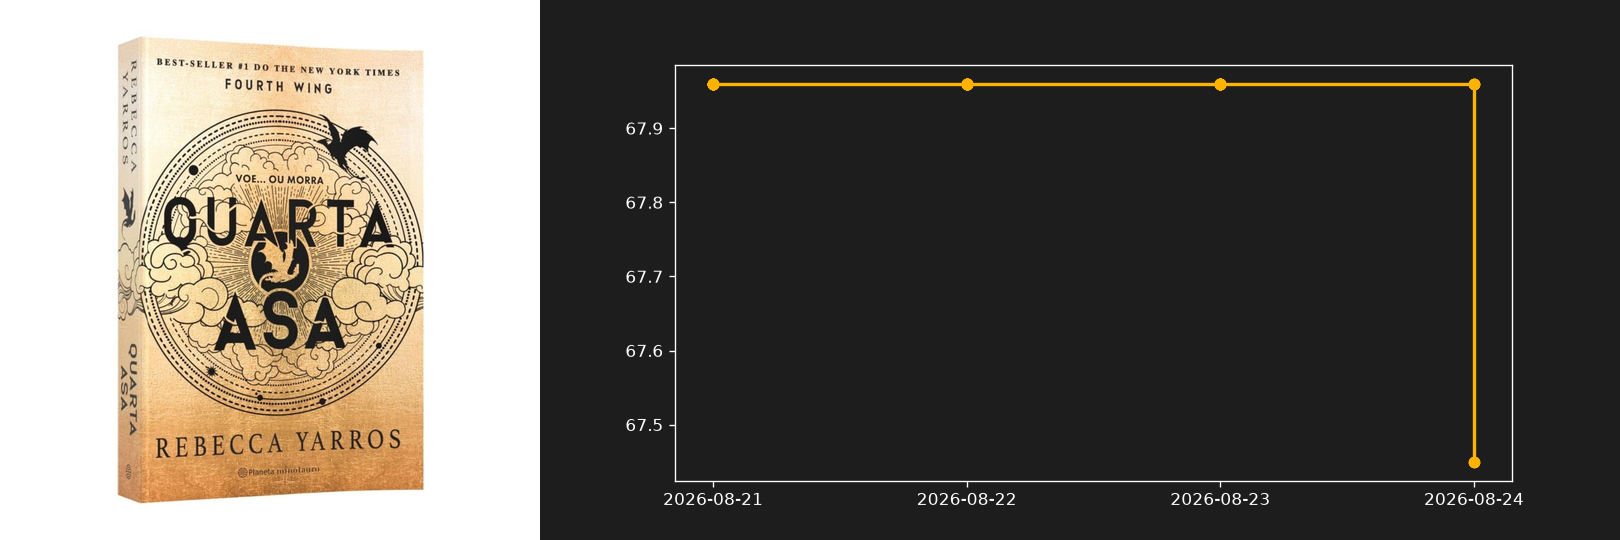
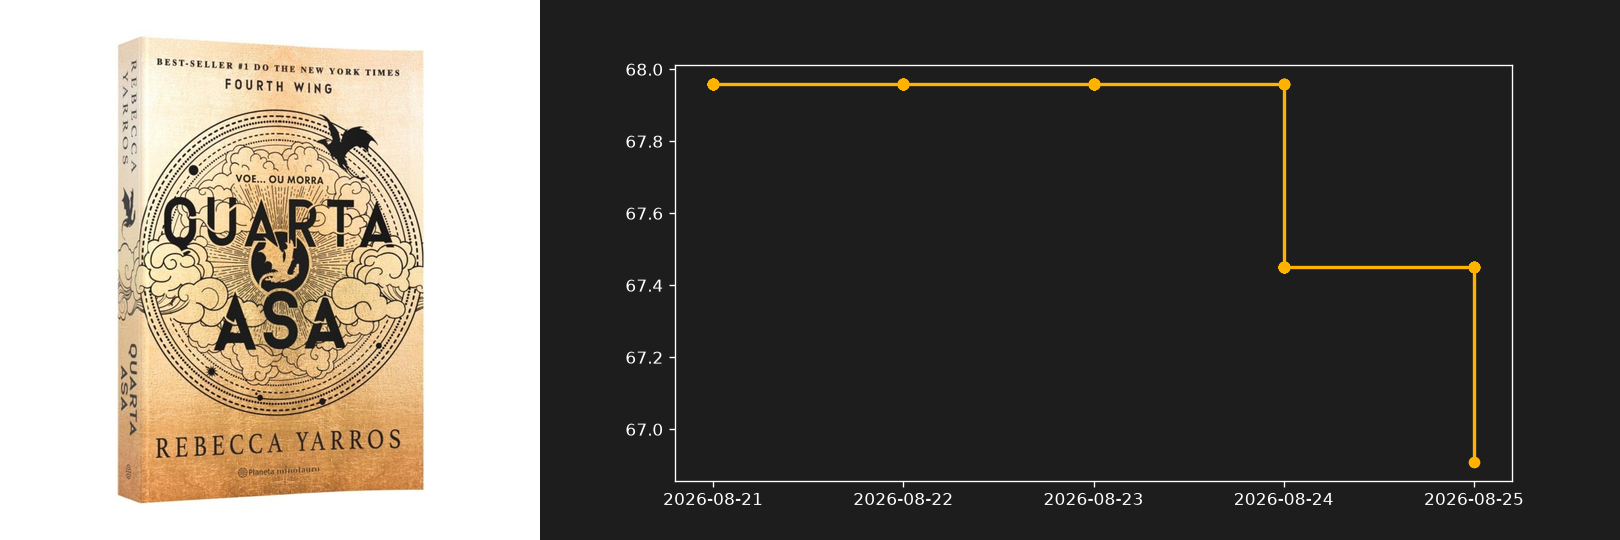
🤖 Bot Mac: Atualizando ofertas [skip ci]

diff --git a/index.html b/index.html
@@ -48,7 +48,7 @@
             <div class="flex flex-col mt-auto mb-5">
                 <div class="flex items-baseline gap-2">
                     <span class="text-2xl font-bold text-white tracking-tight">R$ 184,07</span>
-                    <span class="text-sm text-gray-500 line-through">R$ 257,69</span>
+                    <span class="text-sm text-gray-500 line-through">R$ 257,47</span>
                 </div>
             </div>
             <a href="https://link.amazon/B0bxqDHXJ" target="_blank" rel="nofollow noopener" class="w-full flex items-center justify-center gap-2 py-2.5 rounded-xl bg-white/5 hover:bg-bardo-gold hover:text-bardo-dark text-sm font-bold text-gray-200 transition-all">Comprar na Amazon</a>
@@ -128,7 +128,7 @@
             <div class="flex flex-col mt-auto mb-5">
                 <div class="flex items-baseline gap-2">
                     <span class="text-2xl font-bold text-white tracking-tight">R$ 49,78</span>
-                    <span class="text-sm text-gray-500 line-through">R$ 45,08</span>
+                    <span class="text-sm text-gray-500 line-through">R$ 45,09</span>
                 </div>
             </div>
             <a href="https://link.amazon/B05Sr7Nr7" target="_blank" rel="nofollow noopener" class="w-full flex items-center justify-center gap-2 py-2.5 rounded-xl bg-white/5 hover:bg-bardo-gold hover:text-bardo-dark text-sm font-bold text-gray-200 transition-all">Comprar na Amazon</a>
@@ -148,7 +148,7 @@
             <div class="flex flex-col mt-auto mb-5">
                 <div class="flex items-baseline gap-2">
                     <span class="text-2xl font-bold text-white tracking-tight">R$ 139,93</span>
-                    <span class="text-sm text-gray-500 line-through">R$ 131,09</span>
+                    <span class="text-sm text-gray-500 line-through">R$ 131,11</span>
                 </div>
             </div>
             <a href="https://link.amazon/B04OFbHZF" target="_blank" rel="nofollow noopener" class="w-full flex items-center justify-center gap-2 py-2.5 rounded-xl bg-white/5 hover:bg-bardo-gold hover:text-bardo-dark text-sm font-bold text-gray-200 transition-all">Comprar na Amazon</a>
@@ -188,7 +188,7 @@
             <div class="flex flex-col mt-auto mb-5">
                 <div class="flex items-baseline gap-2">
                     <span class="text-2xl font-bold text-white tracking-tight">R$ 227,41</span>
-                    <span class="text-sm text-gray-500 line-through">R$ 218,33</span>
+                    <span class="text-sm text-gray-500 line-through">R$ 218,35</span>
                 </div>
             </div>
             <a href="https://link.amazon/B0cOS4omj" target="_blank" rel="nofollow noopener" class="w-full flex items-center justify-center gap-2 py-2.5 rounded-xl bg-white/5 hover:bg-bardo-gold hover:text-bardo-dark text-sm font-bold text-gray-200 transition-all">Comprar na Amazon</a>
@@ -228,7 +228,7 @@
             <div class="flex flex-col mt-auto mb-5">
                 <div class="flex items-baseline gap-2">
                     <span class="text-2xl font-bold text-white tracking-tight">R$ 78,99</span>
-                    <span class="text-sm text-gray-500 line-through">R$ 76,39</span>
+                    <span class="text-sm text-gray-500 line-through">R$ 76,40</span>
                 </div>
             </div>
             <a href="https://link.amazon/B01CIGwaZ" target="_blank" rel="nofollow noopener" class="w-full flex items-center justify-center gap-2 py-2.5 rounded-xl bg-white/5 hover:bg-bardo-gold hover:text-bardo-dark text-sm font-bold text-gray-200 transition-all">Comprar na Amazon</a>
@@ -248,7 +248,7 @@
             <div class="flex flex-col mt-auto mb-5">
                 <div class="flex items-baseline gap-2">
                     <span class="text-2xl font-bold text-white tracking-tight">R$ 368,65</span>
-                    <span class="text-sm text-gray-500 line-through">R$ 373,17</span>
+                    <span class="text-sm text-gray-500 line-through">R$ 373,16</span>
                 </div>
             </div>
             <a href="https://link.amazon/B0czAwuOp" target="_blank" rel="nofollow noopener" class="w-full flex items-center justify-center gap-2 py-2.5 rounded-xl bg-white/5 hover:bg-bardo-gold hover:text-bardo-dark text-sm font-bold text-gray-200 transition-all">Comprar na Amazon</a>
@@ -288,7 +288,7 @@
             <div class="flex flex-col mt-auto mb-5">
                 <div class="flex items-baseline gap-2">
                     <span class="text-2xl font-bold text-white tracking-tight">R$ 69,73</span>
-                    <span class="text-sm text-gray-500 line-through">R$ 66,66</span>
+                    <span class="text-sm text-gray-500 line-through">R$ 66,67</span>
                 </div>
             </div>
             <a href="https://link.amazon/B0bJ5jTSU" target="_blank" rel="nofollow noopener" class="w-full flex items-center justify-center gap-2 py-2.5 rounded-xl bg-white/5 hover:bg-bardo-gold hover:text-bardo-dark text-sm font-bold text-gray-200 transition-all">Comprar na Amazon</a>
@@ -308,7 +308,7 @@
             <div class="flex flex-col mt-auto mb-5">
                 <div class="flex items-baseline gap-2">
                     <span class="text-2xl font-bold text-white tracking-tight">R$ 46,14</span>
-                    <span class="text-sm text-gray-500 line-through">R$ 52,84</span>
+                    <span class="text-sm text-gray-500 line-through">R$ 52,82</span>
                 </div>
             </div>
             <a href="https://link.amazon/B075ASsRo" target="_blank" rel="nofollow noopener" class="w-full flex items-center justify-center gap-2 py-2.5 rounded-xl bg-white/5 hover:bg-bardo-gold hover:text-bardo-dark text-sm font-bold text-gray-200 transition-all">Comprar na Amazon</a>
@@ -368,7 +368,7 @@
             <div class="flex flex-col mt-auto mb-5">
                 <div class="flex items-baseline gap-2">
                     <span class="text-2xl font-bold text-white tracking-tight">R$ 92,70</span>
-                    <span class="text-sm text-gray-500 line-through">R$ 102,87</span>
+                    <span class="text-sm text-gray-500 line-through">R$ 102,84</span>
                 </div>
             </div>
             <a href="https://link.amazon/B0g8PJdyP" target="_blank" rel="nofollow noopener" class="w-full flex items-center justify-center gap-2 py-2.5 rounded-xl bg-white/5 hover:bg-bardo-gold hover:text-bardo-dark text-sm font-bold text-gray-200 transition-all">Comprar na Amazon</a>
@@ -408,7 +408,7 @@
             <div class="flex flex-col mt-auto mb-5">
                 <div class="flex items-baseline gap-2">
                     <span class="text-2xl font-bold text-white tracking-tight">R$ 137,70</span>
-                    <span class="text-sm text-gray-500 line-through">R$ 145,62</span>
+                    <span class="text-sm text-gray-500 line-through">R$ 145,60</span>
                 </div>
             </div>
             <a href="https://link.amazon/B0cBFS3o1" target="_blank" rel="nofollow noopener" class="w-full flex items-center justify-center gap-2 py-2.5 rounded-xl bg-white/5 hover:bg-bardo-gold hover:text-bardo-dark text-sm font-bold text-gray-200 transition-all">Comprar na Amazon</a>
@@ -428,7 +428,7 @@
             <div class="flex flex-col mt-auto mb-5">
                 <div class="flex items-baseline gap-2">
                     <span class="text-2xl font-bold text-white tracking-tight">R$ 148,29</span>
-                    <span class="text-sm text-gray-500 line-through">R$ 146,90</span>
+                    <span class="text-sm text-gray-500 line-through">R$ 146,91</span>
                 </div>
             </div>
             <a href="https://link.amazon/B0f81O992" target="_blank" rel="nofollow noopener" class="w-full flex items-center justify-center gap-2 py-2.5 rounded-xl bg-white/5 hover:bg-bardo-gold hover:text-bardo-dark text-sm font-bold text-gray-200 transition-all">Comprar na Amazon</a>
@@ -448,7 +448,7 @@
             <div class="flex flex-col mt-auto mb-5">
                 <div class="flex items-baseline gap-2">
                     <span class="text-2xl font-bold text-white tracking-tight">R$ 44,89</span>
-                    <span class="text-sm text-gray-500 line-through">R$ 43,36</span>
+                    <span class="text-sm text-gray-500 line-through">R$ 43,37</span>
                 </div>
             </div>
             <a href="https://link.amazon/B00bB1BuS" target="_blank" rel="nofollow noopener" class="w-full flex items-center justify-center gap-2 py-2.5 rounded-xl bg-white/5 hover:bg-bardo-gold hover:text-bardo-dark text-sm font-bold text-gray-200 transition-all">Comprar na Amazon</a>
@@ -548,7 +548,7 @@
             <div class="flex flex-col mt-auto mb-5">
                 <div class="flex items-baseline gap-2">
                     <span class="text-2xl font-bold text-white tracking-tight">R$ 87,59</span>
-                    <span class="text-sm text-gray-500 line-through">R$ 84,19</span>
+                    <span class="text-sm text-gray-500 line-through">R$ 84,20</span>
                 </div>
             </div>
             <a href="https://link.amazon/B0fHxeIhM" target="_blank" rel="nofollow noopener" class="w-full flex items-center justify-center gap-2 py-2.5 rounded-xl bg-white/5 hover:bg-bardo-gold hover:text-bardo-dark text-sm font-bold text-gray-200 transition-all">Comprar na Amazon</a>
@@ -568,7 +568,7 @@
             <div class="flex flex-col mt-auto mb-5">
                 <div class="flex items-baseline gap-2">
                     <span class="text-2xl font-bold text-white tracking-tight">R$ 76,38</span>
-                    <span class="text-sm text-gray-500 line-through">R$ 73,36</span>
+                    <span class="text-sm text-gray-500 line-through">R$ 73,37</span>
                 </div>
             </div>
             <a href="https://link.amazon/B09kGQop8" target="_blank" rel="nofollow noopener" class="w-full flex items-center justify-center gap-2 py-2.5 rounded-xl bg-white/5 hover:bg-bardo-gold hover:text-bardo-dark text-sm font-bold text-gray-200 transition-all">Comprar na Amazon</a>
@@ -588,7 +588,7 @@
             <div class="flex flex-col mt-auto mb-5">
                 <div class="flex items-baseline gap-2">
                     <span class="text-2xl font-bold text-white tracking-tight">R$ 285,85</span>
-                    <span class="text-sm text-gray-500 line-through">R$ 279,37</span>
+                    <span class="text-sm text-gray-500 line-through">R$ 279,45</span>
                 </div>
             </div>
             <a href="https://link.amazon/B046QvncM" target="_blank" rel="nofollow noopener" class="w-full flex items-center justify-center gap-2 py-2.5 rounded-xl bg-white/5 hover:bg-bardo-gold hover:text-bardo-dark text-sm font-bold text-gray-200 transition-all">Comprar na Amazon</a>
@@ -608,7 +608,7 @@
             <div class="flex flex-col mt-auto mb-5">
                 <div class="flex items-baseline gap-2">
                     <span class="text-2xl font-bold text-white tracking-tight">R$ 192,75</span>
-                    <span class="text-sm text-gray-500 line-through">R$ 190,98</span>
+                    <span class="text-sm text-gray-500 line-through">R$ 191,01</span>
                 </div>
             </div>
             <a href="https://link.amazon/B037mPoB1" target="_blank" rel="nofollow noopener" class="w-full flex items-center justify-center gap-2 py-2.5 rounded-xl bg-white/5 hover:bg-bardo-gold hover:text-bardo-dark text-sm font-bold text-gray-200 transition-all">Comprar na Amazon</a>
@@ -628,7 +628,7 @@
             <div class="flex flex-col mt-auto mb-5">
                 <div class="flex items-baseline gap-2">
                     <span class="text-2xl font-bold text-white tracking-tight">R$ 38,13</span>
-                    <span class="text-sm text-gray-500 line-through">R$ 37,88</span>
+                    <span class="text-sm text-gray-500 line-through">R$ 37,89</span>
                 </div>
             </div>
             <a href="https://link.amazon/B0ja4Ste6" target="_blank" rel="nofollow noopener" class="w-full flex items-center justify-center gap-2 py-2.5 rounded-xl bg-white/5 hover:bg-bardo-gold hover:text-bardo-dark text-sm font-bold text-gray-200 transition-all">Comprar na Amazon</a>
@@ -648,7 +648,7 @@
             <div class="flex flex-col mt-auto mb-5">
                 <div class="flex items-baseline gap-2">
                     <span class="text-2xl font-bold text-white tracking-tight">R$ 48,99</span>
-                    <span class="text-sm text-gray-500 line-through">R$ 48,54</span>
+                    <span class="text-sm text-gray-500 line-through">R$ 48,55</span>
                 </div>
             </div>
             <a href="https://link.amazon/B0cIs9iDO" target="_blank" rel="nofollow noopener" class="w-full flex items-center justify-center gap-2 py-2.5 rounded-xl bg-white/5 hover:bg-bardo-gold hover:text-bardo-dark text-sm font-bold text-gray-200 transition-all">Comprar na Amazon</a>
@@ -727,8 +727,8 @@
             <h3 class="text-base font-semibold text-gray-100 leading-snug line-clamp-2 mb-4 group-hover:text-bardo-gold transition-colors">Quarta asa</h3>
             <div class="flex flex-col mt-auto mb-5">
                 <div class="flex items-baseline gap-2">
-                    <span class="text-2xl font-bold text-white tracking-tight">R$ 67,45</span>
-                    <span class="text-sm text-gray-500 line-through">R$ 67,82</span>
+                    <span class="text-2xl font-bold text-white tracking-tight">R$ 66,91</span>
+                    <span class="text-sm text-gray-500 line-through">R$ 67,80</span>
                 </div>
             </div>
             <a href="https://link.amazon/B0gpt2mie" target="_blank" rel="nofollow noopener" class="w-full flex items-center justify-center gap-2 py-2.5 rounded-xl bg-white/5 hover:bg-bardo-gold hover:text-bardo-dark text-sm font-bold text-gray-200 transition-all">Comprar na Amazon</a>
@@ -748,7 +748,7 @@
             <div class="flex flex-col mt-auto mb-5">
                 <div class="flex items-baseline gap-2">
                     <span class="text-2xl font-bold text-white tracking-tight">R$ 66,74</span>
-                    <span class="text-sm text-gray-500 line-through">R$ 69,15</span>
+                    <span class="text-sm text-gray-500 line-through">R$ 69,12</span>
                 </div>
             </div>
             <a href="https://link.amazon/B053gl2cU" target="_blank" rel="nofollow noopener" class="w-full flex items-center justify-center gap-2 py-2.5 rounded-xl bg-white/5 hover:bg-bardo-gold hover:text-bardo-dark text-sm font-bold text-gray-200 transition-all">Comprar na Amazon</a>
@@ -768,7 +768,7 @@
             <div class="flex flex-col mt-auto mb-5">
                 <div class="flex items-baseline gap-2">
                     <span class="text-2xl font-bold text-white tracking-tight">R$ 57,59</span>
-                    <span class="text-sm text-gray-500 line-through">R$ 56,05</span>
+                    <span class="text-sm text-gray-500 line-through">R$ 56,07</span>
                 </div>
             </div>
             <a href="https://link.amazon/B09R1newk" target="_blank" rel="nofollow noopener" class="w-full flex items-center justify-center gap-2 py-2.5 rounded-xl bg-white/5 hover:bg-bardo-gold hover:text-bardo-dark text-sm font-bold text-gray-200 transition-all">Comprar na Amazon</a>
@@ -788,7 +788,7 @@
             <div class="flex flex-col mt-auto mb-5">
                 <div class="flex items-baseline gap-2">
                     <span class="text-2xl font-bold text-white tracking-tight">R$ 39,22</span>
-                    <span class="text-sm text-gray-500 line-through">R$ 39,82</span>
+                    <span class="text-sm text-gray-500 line-through">R$ 39,81</span>
                 </div>
             </div>
             <a href="https://link.amazon/B0aKkKOM2" target="_blank" rel="nofollow noopener" class="w-full flex items-center justify-center gap-2 py-2.5 rounded-xl bg-white/5 hover:bg-bardo-gold hover:text-bardo-dark text-sm font-bold text-gray-200 transition-all">Comprar na Amazon</a>
@@ -808,7 +808,7 @@
             <div class="flex flex-col mt-auto mb-5">
                 <div class="flex items-baseline gap-2">
                     <span class="text-2xl font-bold text-white tracking-tight">R$ 166,15</span>
-                    <span class="text-sm text-gray-500 line-through">R$ 164,66</span>
+                    <span class="text-sm text-gray-500 line-through">R$ 164,68</span>
                 </div>
             </div>
             <a href="https://link.amazon/B02R68ory" target="_blank" rel="nofollow noopener" class="w-full flex items-center justify-center gap-2 py-2.5 rounded-xl bg-white/5 hover:bg-bardo-gold hover:text-bardo-dark text-sm font-bold text-gray-200 transition-all">Comprar na Amazon</a>
@@ -988,7 +988,7 @@
             <div class="flex flex-col mt-auto mb-5">
                 <div class="flex items-baseline gap-2">
                     <span class="text-2xl font-bold text-white tracking-tight">R$ 314,60</span>
-                    <span class="text-sm text-gray-500 line-through">R$ 323,21</span>
+                    <span class="text-sm text-gray-500 line-through">R$ 323,09</span>
                 </div>
             </div>
             <a href="https://link.amazon/B02mXXqIa" target="_blank" rel="nofollow noopener" class="w-full flex items-center justify-center gap-2 py-2.5 rounded-xl bg-white/5 hover:bg-bardo-gold hover:text-bardo-dark text-sm font-bold text-gray-200 transition-all">Comprar na Amazon</a>
@@ -1008,7 +1008,7 @@
             <div class="flex flex-col mt-auto mb-5">
                 <div class="flex items-baseline gap-2">
                     <span class="text-2xl font-bold text-white tracking-tight">R$ 232,46</span>
-                    <span class="text-sm text-gray-500 line-through">R$ 226,86</span>
+                    <span class="text-sm text-gray-500 line-through">R$ 226,93</span>
                 </div>
             </div>
             <a href="https://link.amazon/B01sIcUyP" target="_blank" rel="nofollow noopener" class="w-full flex items-center justify-center gap-2 py-2.5 rounded-xl bg-white/5 hover:bg-bardo-gold hover:text-bardo-dark text-sm font-bold text-gray-200 transition-all">Comprar na Amazon</a>
